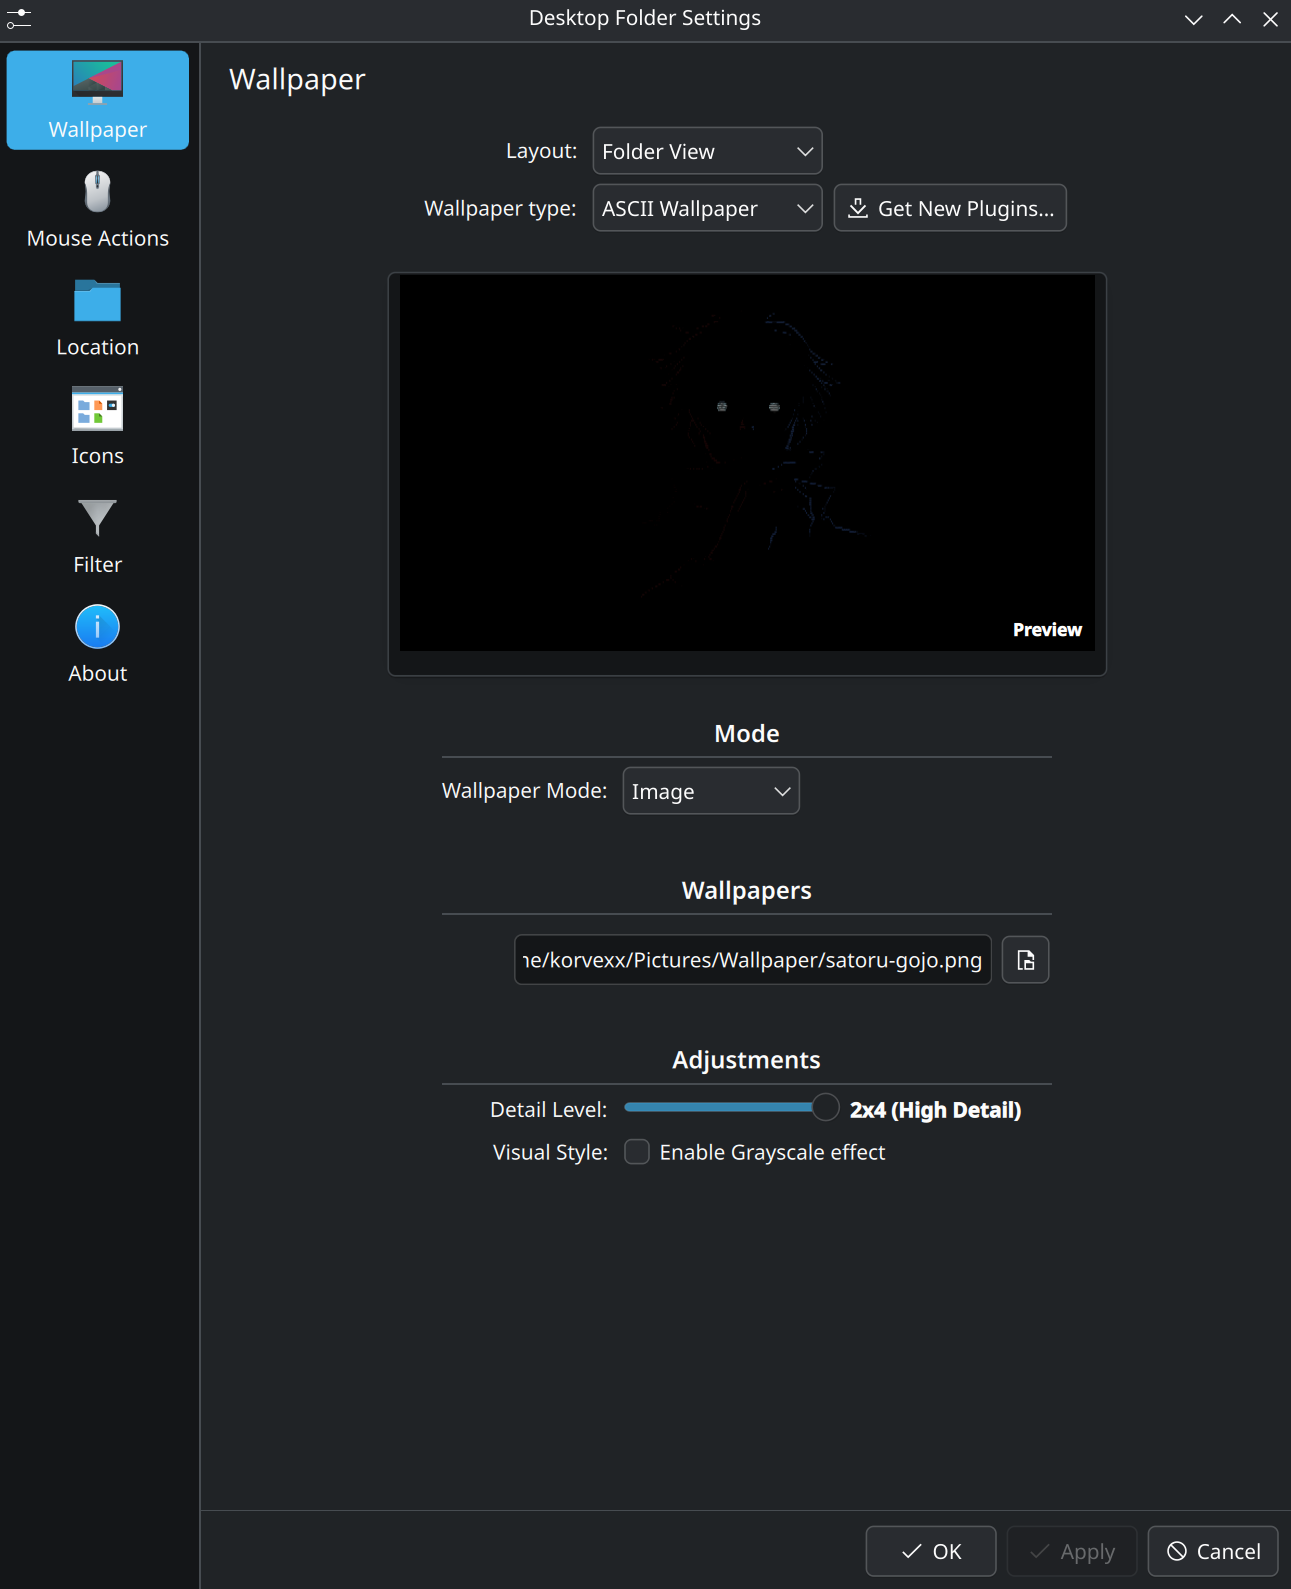
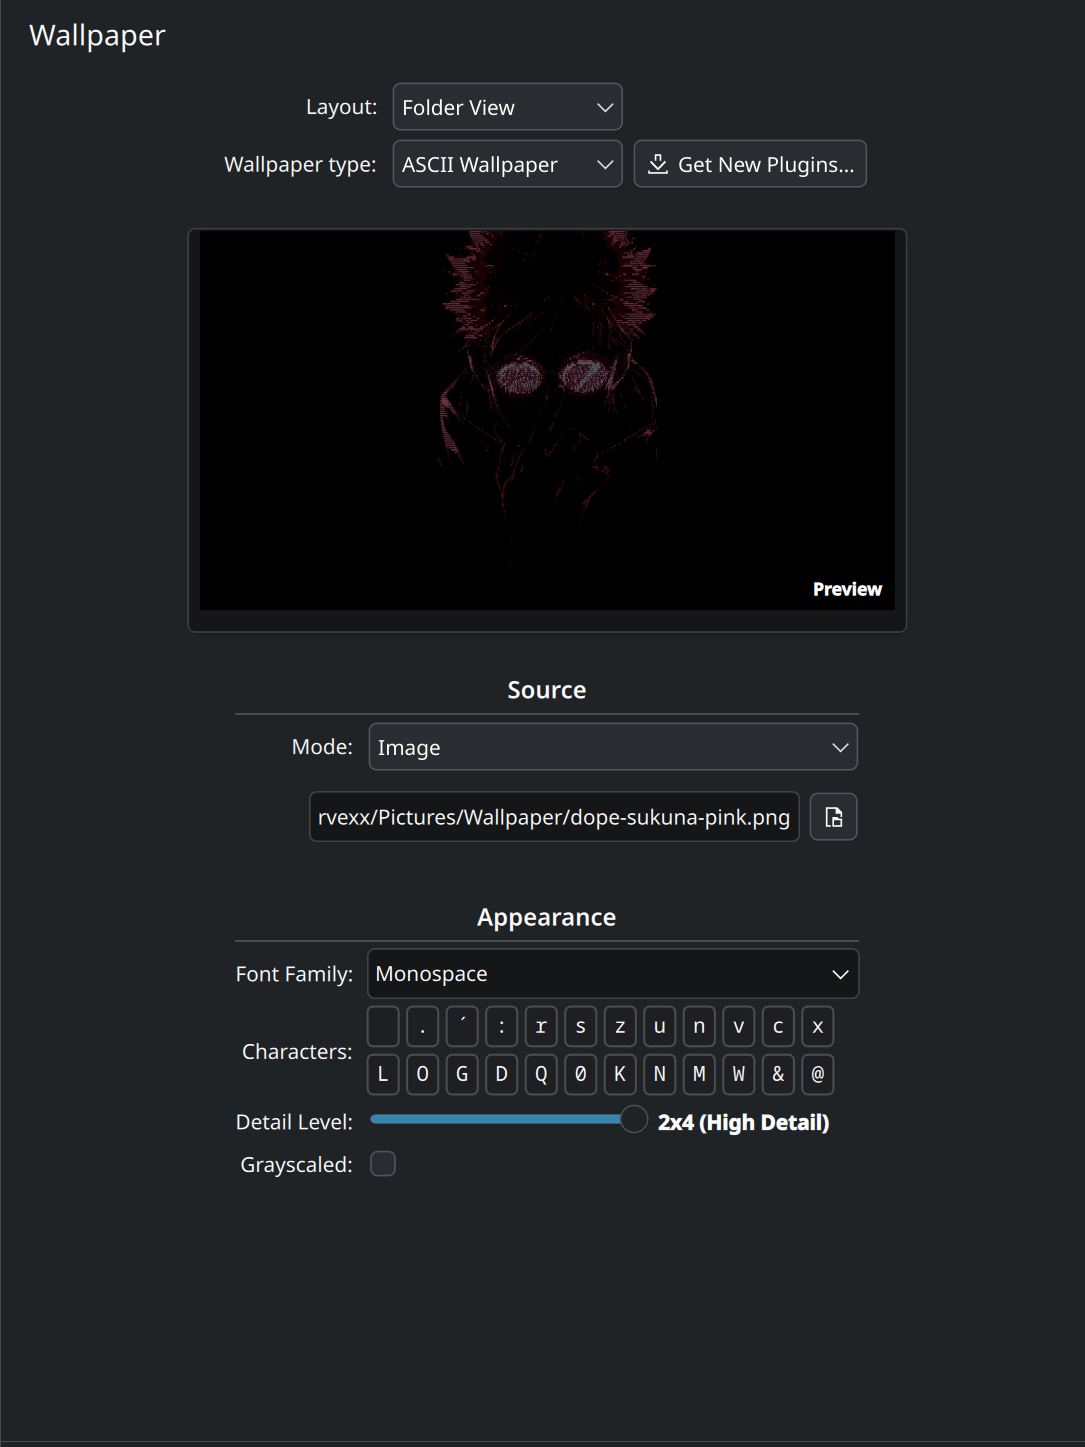
refactor: update images and README

diff --git a/README.md b/README.md
@@ -13,7 +13,8 @@
     </div>
     </br>
     <p>
-        ASCII Wallpapers is a wallpaper addon for KDE Plasma transforming any static image into ASCII-Art.<br>Choose between different degrees of details and toggle grayscale for a monochrome look.
+        ASCII Wallpapers is a wallpaper addon for KDE Plasma transforming any static image into ASCII-Art.<br>
+        Choose your font and character set, adjust detail-level and grayscale and switch between image and slideshow mode!
     </p>
     <br>
 </div>
@@ -46,10 +47,10 @@
 </table>
 
 
-<img src="screenshots/settings_image.png" width="600"/>
+<img src="screenshots/settings.png" width="600"/>
 
 
-<em>The Wallpaper Settings Configuration Page (Image Mode)</em>
+<em>The Wallpaper Settings Configuration Page</em>
 </div>
 
 <h3>How does it work?</h3>
